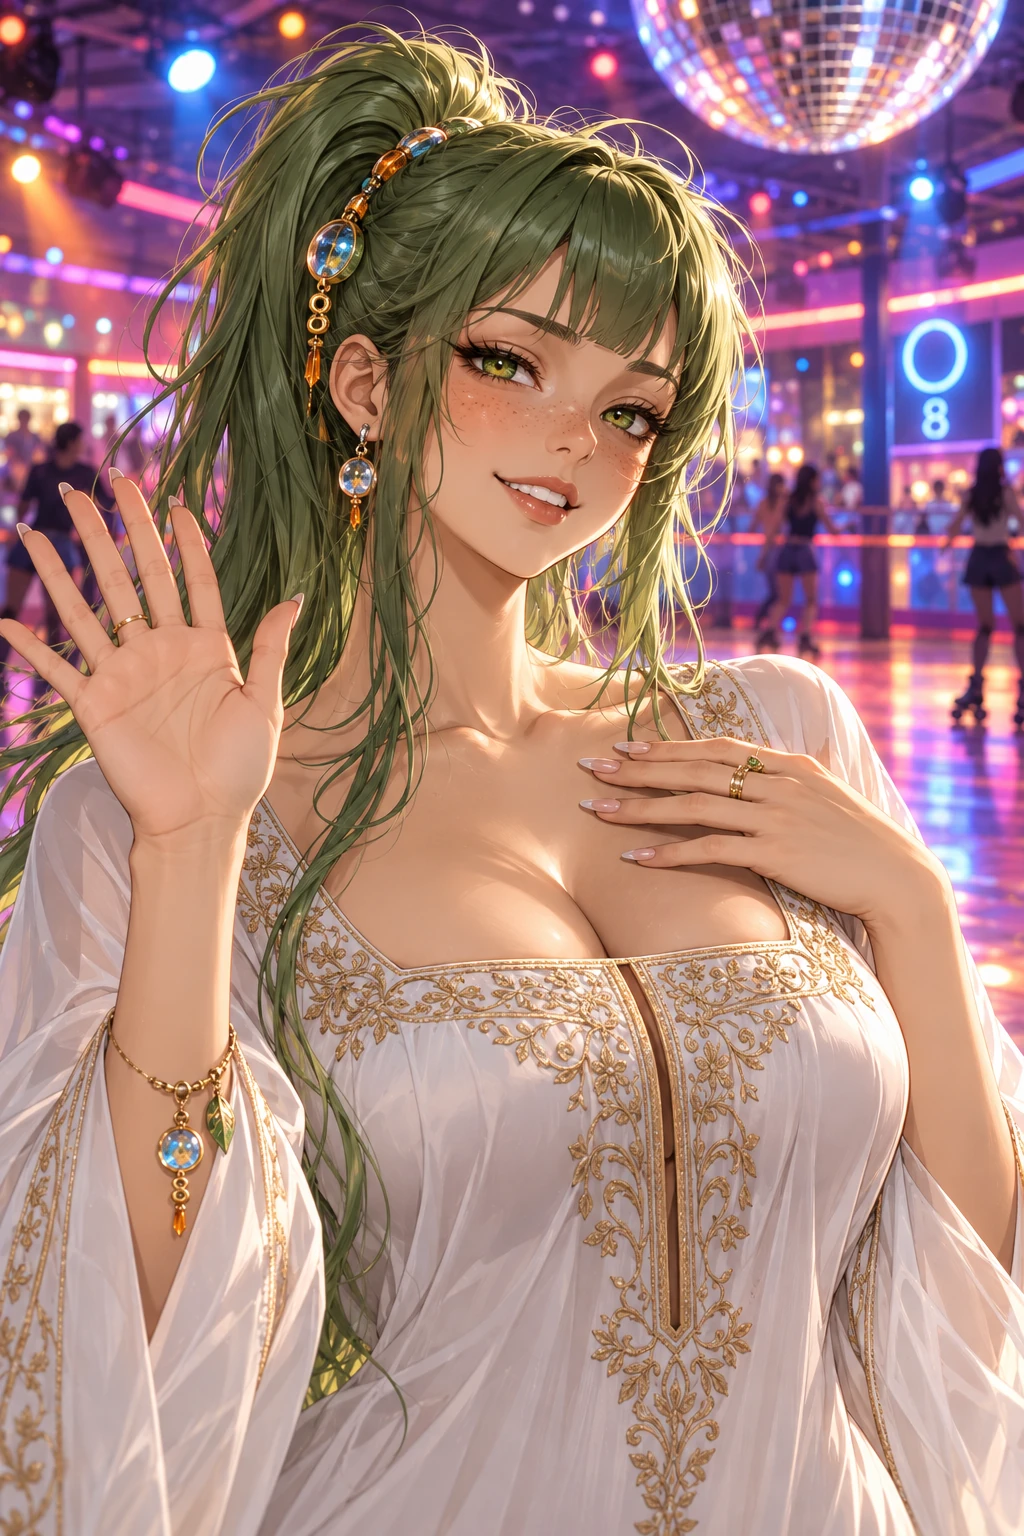
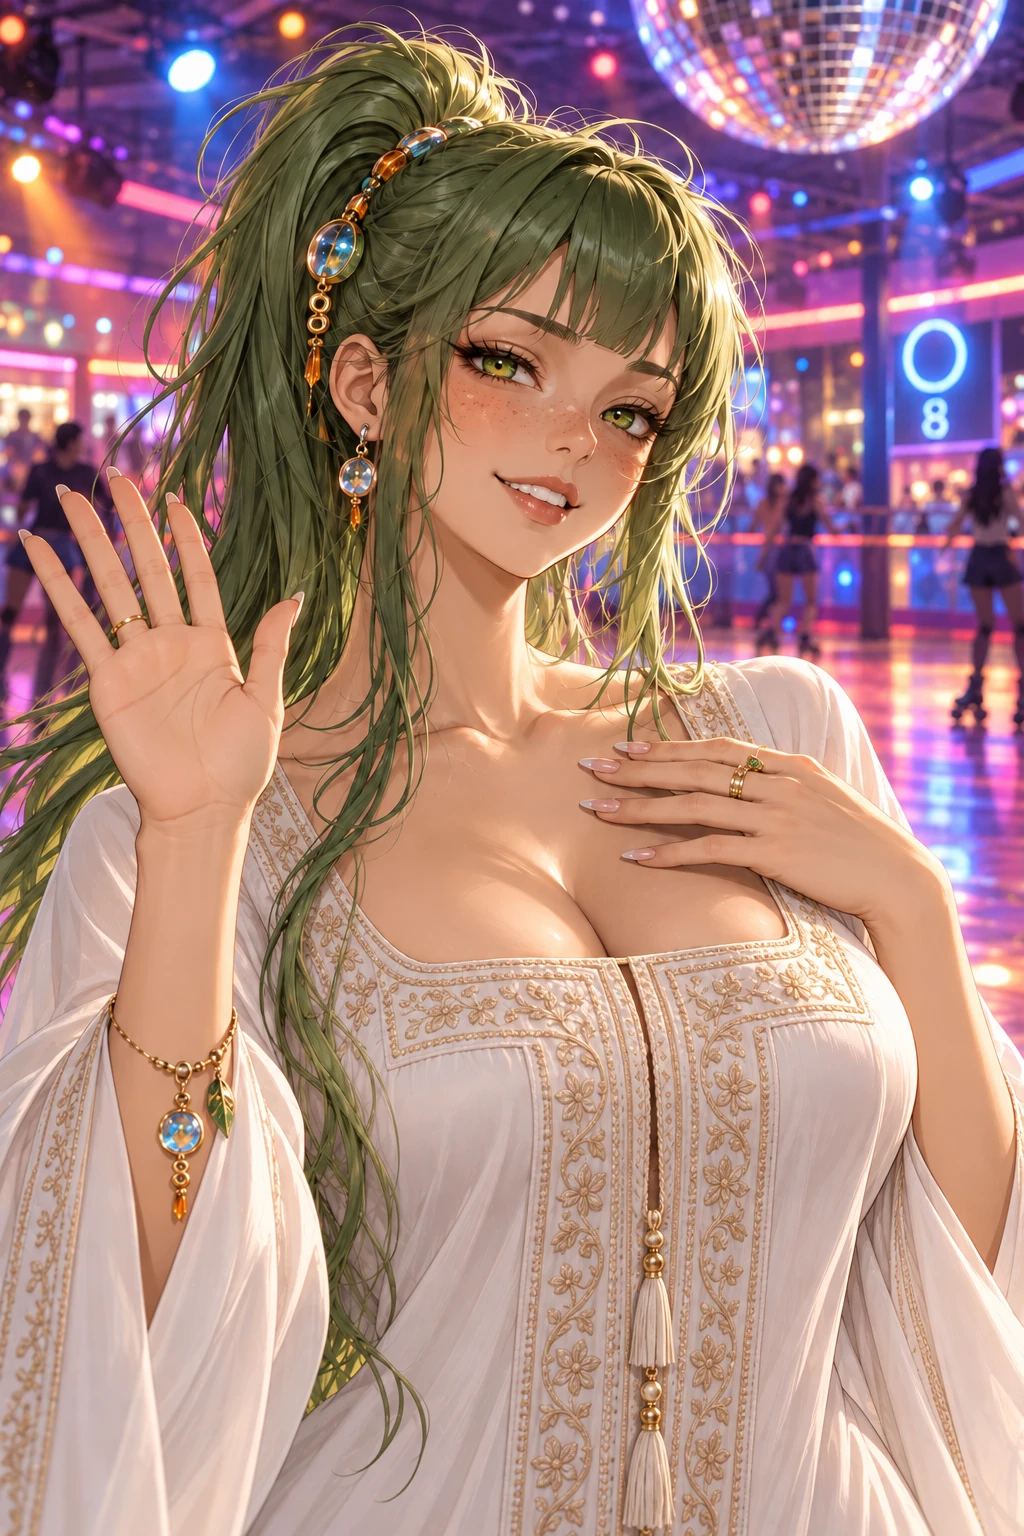
수정: 산소 숲 메카 일상3 오른손 손가락 다섯 개

diff --git a/records/o-wood/README.md b/records/o-wood/README.md
@@ -2,6 +2,6 @@
 
 세계 그림 3장 + 세계별 일상컷 5장씩, 총 18장. 생성기 기본 game_keyart v2.
 
-AI 검수의 실제 차이를 각 ui.json에 기록했다. 메카 일상 3번은 펼친 오른손에 손가락 여섯 개가 있어 qa.passed=false다. 자동화 규칙에 따라 재생성 없이 게시한다.
+AI 검수의 실제 차이를 각 ui.json에 기록했다. 메카 일상 3번은 최초 결과의 여섯 손가락 오류를 사용자 요청으로 수정했다. 펼친 오른손은 엄지 1개와 손가락 4개이며, 수정 전 기록은 revisions/mecha-casual3.before-hand-fix-20261101.json에 보존했다.
 
 메카 일상 2번은 원계획이 노출 bold 두 번, moderate, low에서 거절돼 한 번 재계획했다. 새 계획의 세일러 무대 의상으로 생성했으며 generation.retries에 모두 남겼다.
